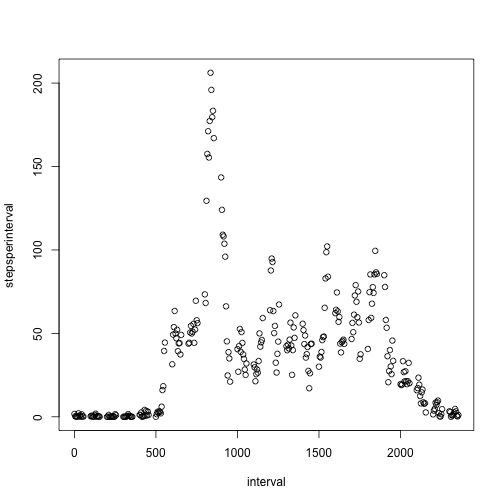
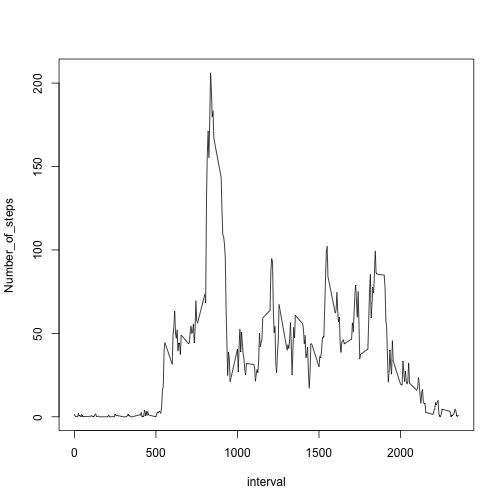
Final

diff --git a/PA1_template.md b/PA1_template.md
@@ -49,8 +49,8 @@ test <- lapply(split(activity$steps,activity$interval), mean, na.rm = TRUE)
 df <- data.frame(matrix(unlist(test), byrow=T))
 colnames(df)[1] <- "stepsperinterval"
 bind <- cbind(df$stepsperinterval, head(activity$interval, 288))
-colnames(bind) <- c("stepsperinterval", "interval")
-with(as.data.frame(bind), plot(interval, stepsperinterval))
+colnames(bind) <- c("Number_of_steps", "interval")
+with(as.data.frame(bind), plot(interval, Number_of_steps, type="l"))
 ```
 
 ![plot of chunk unnamed-chunk-4](figure/unnamed-chunk-4-1.png) 
@@ -64,6 +64,18 @@ for(i in 1:nrow(dfbind)){
         max <- data.frame(dfbind[i,])
     }
 }
+```
+
+```
+## Warning in max(dfbind$stepsperinterval): no non-missing arguments to max;
+## returning -Inf
+```
+
+```
+## Error in if (max(dfbind$stepsperinterval) == dfbind$stepsperinterval[i]) {: argument is of length zero
+```
+
+```r
 print(max)
 ```
 
@@ -85,7 +97,7 @@ sum(is.na(activity$steps))
 
 2. Devise a strategy for filling in all of the missing values in the dataset. The strategy does not need to be sophisticated. For example, you could use the mean/median for that day, or the mean for that 5-minute interval, etc.
 
-calculate the mean for that 5-minute interval first and create a new dataset with NA replacement. 
+First, calculate the mean for that 5-minute interval first and then create a new dataset with NA replacement. 
 
 ```r
 test <- lapply(split(activity$steps,activity$interval), mean, na.rm = TRUE)
@@ -134,4 +146,51 @@ Impact: Enlarge the difference between each day of total daily number of steps.
 
 ##Are there differences in activity patterns between weekdays and weekends?
 1. Create a new factor variable in the dataset with two levels -- "weekday" and "weekend" indicating whether a given date is a weekday or weekend day.
+
+```r
+ibrary(lubridate)
+```
+
+```
+## Error in eval(expr, envir, enclos): could not find function "ibrary"
+```
+
+```r
+week <- data.frame(week = "", stringsAsFactors = FALSE)
+bind <- cbind(activity, week)
+for(i in 1:nrow(bind)){
+    if(wday(bind$date[i])==1 || wday(bind$date[i])==7){
+        bind$week[i] <- "weekend"
+    }else{
+        bind$week[i] <- "weekday"
+    } 
+}
+```
+
 2. Make a panel plot containing a time series plot (i.e. type = "l") of the 5-minute interval (x-axis) and the average number of steps taken, averaged across all weekday days or weekend days (y-axis). The plot should look something like the following, which was created using simulated data:
+
+```r
+weekend <- bind[bind$week %in% c("weekend"), ]
+weekday <- bind[bind$week %in% c("weekday"), ]
+
+test <- lapply(split(weekend$steps,weekend$interval), mean, na.rm = TRUE)
+df <- data.frame(matrix(unlist(test), byrow=T))
+colnames(df)[1] <- "Number_of_steps"
+bind <- cbind(df$Number_of_steps, head(activity$interval, 288))
+colnames(bind) <- c("Number_of_steps", "interval")
+bind <- as.data.frame(bind)
+
+test <- lapply(split(weekday$steps,weekday$interval), mean, na.rm = TRUE)
+df <- data.frame(matrix(unlist(test), byrow=T))
+colnames(df)[1] <- "Number_of_steps"
+bind2 <- cbind(df$Number_of_steps, head(activity$interval, 288))
+colnames(bind2) <- c("Number_of_steps", "interval")
+bind <- as.data.frame(bind)
+
+total <- rbind(bind, bind2)
+f <- rep(0:1, each = 288)
+f <- factor(f, labels = c("weekend", "weekday"))
+xyplot(total$Number_of_steps~total$interval|f, layout = c(1,2), type="l", ylab="Number of steps", xlab="interval")
+```
+
+![plot of chunk unnamed-chunk-11](figure/unnamed-chunk-11-1.png) 
